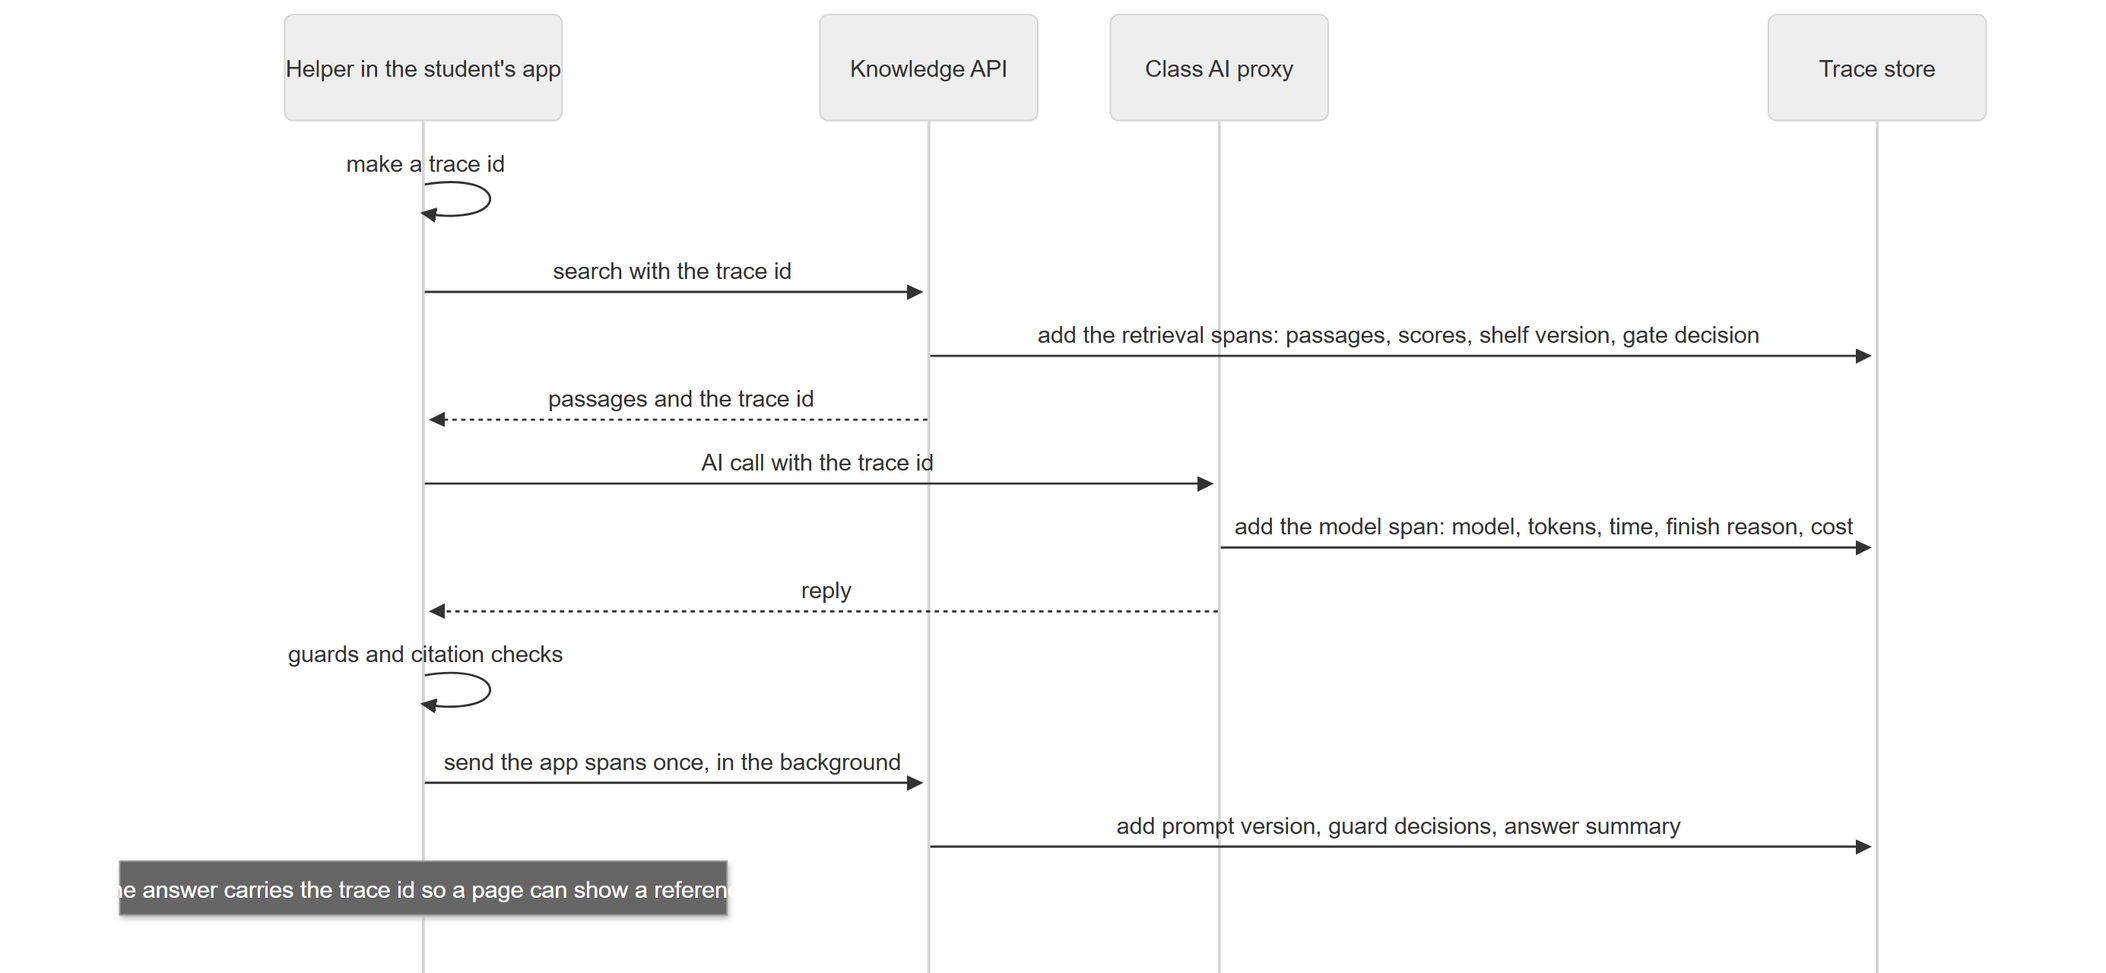
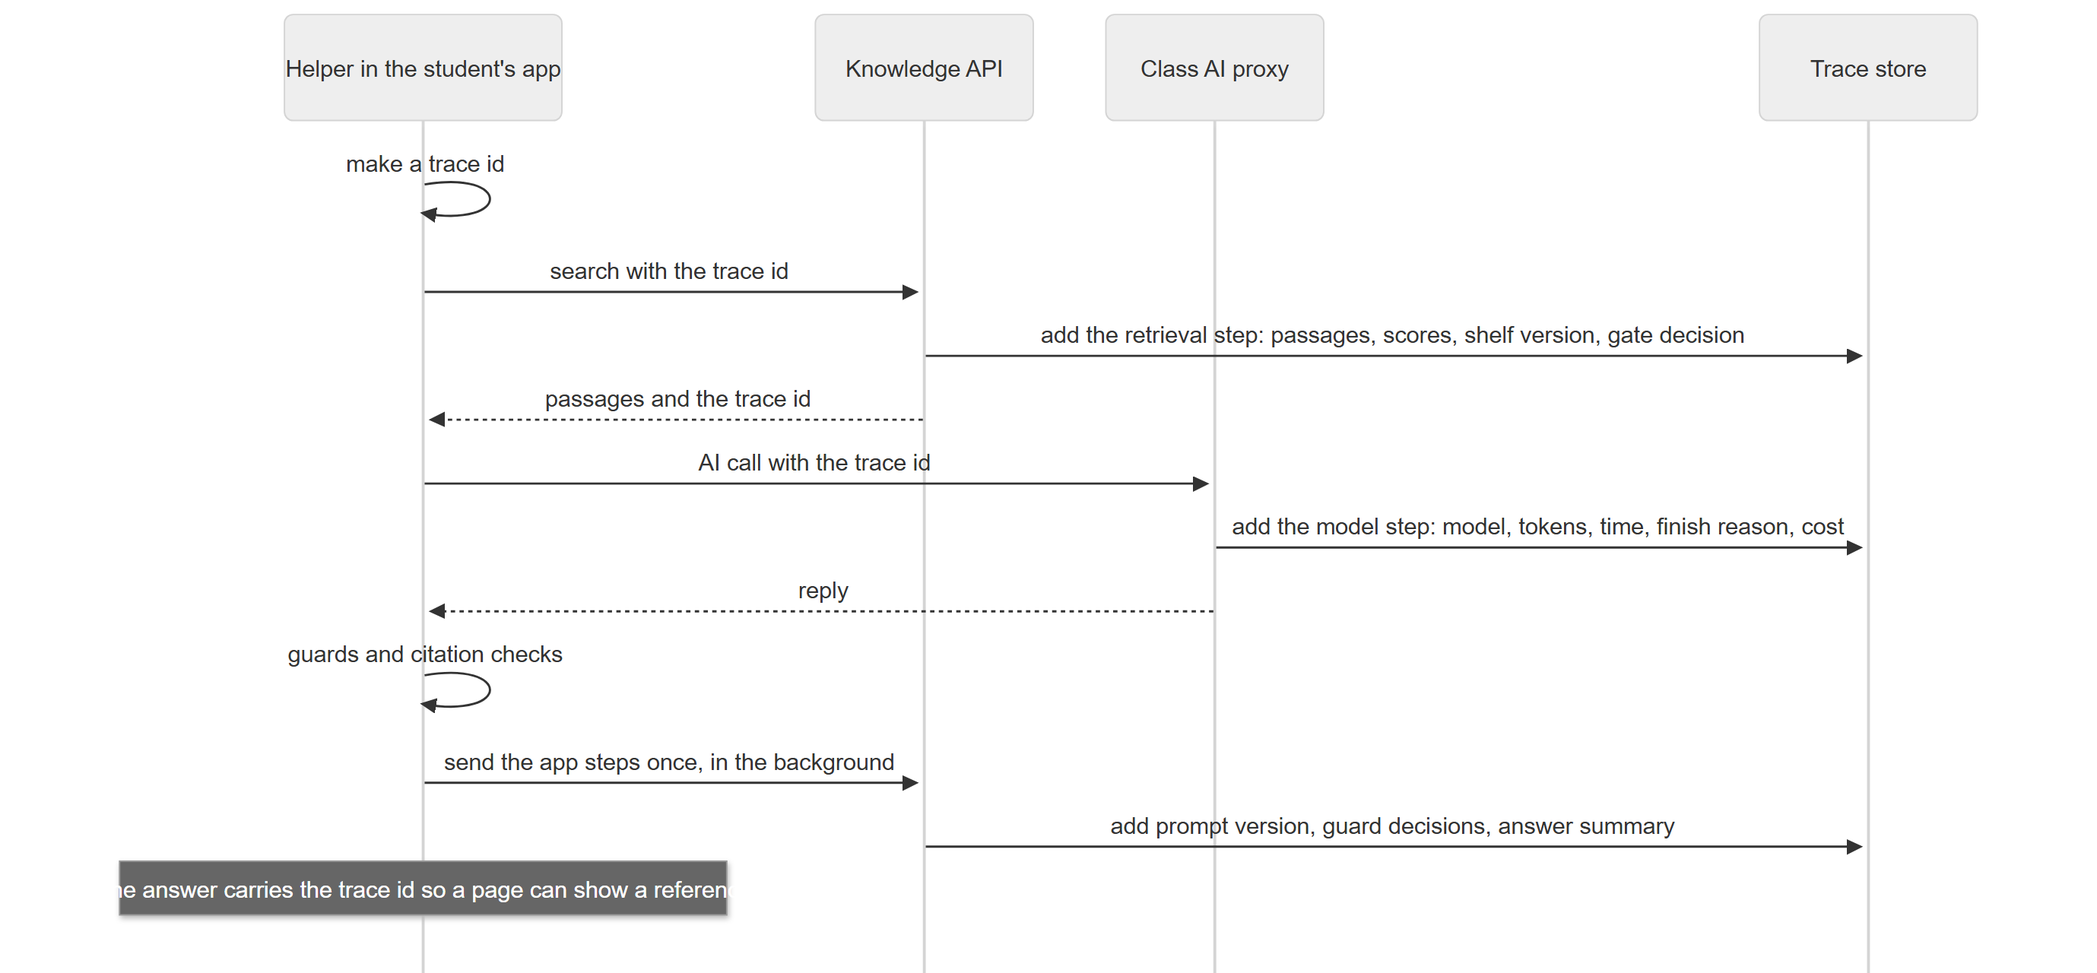
Docs: traceability plan updated by owner decisions (90 days retention for everything, teacher reminders and one download for all apps, student view of own app's traces with a per-student toggle) and a cost correction (one small item per step instead of one growing item)

diff --git a/docs/TRACEABILITY_PLAN.md b/docs/TRACEABILITY_PLAN.md
@@ -1,6 +1,8 @@
 # Traceability plan: seeing exactly what happened in every answer
 
-> **Status: a plan, nothing is built yet.** It was written for a budget of **$4 to $5 a month** for this feature, a platform that must stay simple and modular, and an owner who is not a tracing expert, so the plan makes the choices and lists only what must be confirmed. It belongs with [RAG_GUIDE.md](RAG_GUIDE.md) (the pipeline being traced), [AGENT_GUIDE.md](AGENT_GUIDE.md) (the agent being traced) and the guardrail and evaluation plan (which reads these traces).
+> **Status: a plan, nothing is built yet. The owner has approved the defaults in section 12.** It was written for a budget of **$4 to $5 a month** for this feature, a platform that must stay simple and modular, and an owner who is not a tracing expert, so the plan makes the choices and lists only what must be confirmed. It belongs with [RAG_GUIDE.md](RAG_GUIDE.md) (the pipeline being traced), [AGENT_GUIDE.md](AGENT_GUIDE.md) (the agent being traced) and the guardrail and evaluation plan (which reads these traces).
+>
+> **Changes since the first version (owner decisions):** retention is **90 days for everything**, with **reminders and an easy download** for the teacher; **students can see the traces of their own app** when the teacher allows it (a toggle per student). The cost design was also corrected: traces are stored as **small items per step**, not one growing item (section 3).
 
 ---
 
@@ -12,16 +14,14 @@ For **any answer** the platform gave, you can open one page and see **what was a
 
 | Option | Verdict |
 |---|---|
-| A hosted tracing service (LangSmith, Langfuse Cloud, Arize AX) | **Not in version 1.** Data leaves your account, it costs per trace, and customers who want their data to stay in their AWS would object. An **optional export** can come later |
+| A hosted tracing service (LangSmith, Langfuse Cloud, Arize AX) | **Not in version 1.** Data leaves your account, it costs per trace, and customers who want their data to stay in their AWS would object. An **optional export file** comes later |
 | A self-hosted tracing server (Phoenix, Langfuse) running all month | **No.** A container that is always on costs roughly $10 to $30 a month and is another thing to operate |
 | The full OpenTelemetry stack (SDK, collector) | **No.** Too heavy for student functions that are standard-library only |
 | **Our own small trace record, shaped like OpenTelemetry and OpenInference (the naming Arize uses)** | **Yes.** It costs almost nothing, stays in your account, needs no new libraries, and can be exported to Phoenix, Langfuse or LangSmith later because the shapes map one to one |
 
-So the answer to "OpenTelemetry with custom" is: **our own storage and viewer, with the standard's field names, so nothing is locked in.**
-
 ## 3. The design in five small modules
 
-<!-- diagram:c71ae7e6 -->
+<!-- diagram:4cd39b79 -->
 ![Diagram: 3. The design in five small modules](diagrams/traceability-plan/01-3-the-design-in-five-small-modules.png)
 
 <details><summary>Diagram source (Mermaid, editable; GitHub also draws it)</summary>
@@ -36,19 +36,21 @@ flowchart LR
       A["Class AI proxy<br/>model spans: tokens, time, finish reason"]
     end
     CORE["Module 1: trace core<br/>schema, ids, privacy levels, masking"]
-    STORE[("Module 2: trace store<br/>one DynamoDB table with expiry")]
-    VIEW["Module 3: Traces tab<br/>on the teacher page"]
+    STORE[("Module 2: trace store<br/>one DynamoDB table with expiry<br/>one small item per step")]
+    TV["Module 3a: Traces tab<br/>teacher page"]
+    SV["Module 3b: student view<br/>student page and npm run traces<br/>only if the teacher allows"]
     ROLL["Module 4: daily rollups and alerts<br/>drift, cost, refusals"]
-    EXP["Module 5: export and replay<br/>JSONL or OTLP file, optional"]
+    ARC["Module 5: archive, reminders, export and replay<br/>download for all apps, optional"]
     H --> K
     H --> A
     K --> CORE
     A --> CORE
     H -->|"app spans, once per answer"| K
     CORE --> STORE
-    STORE --> VIEW
+    STORE --> TV
+    STORE --> SV
     STORE --> ROLL
-    STORE --> EXP
+    STORE --> ARC
 ```
 
 </details>
@@ -57,16 +59,19 @@ flowchart LR
 | Module | Does | Why it is separate |
 |---|---|---|
 | **1. Trace core** | Defines the record, makes ids, applies the privacy level, masks secrets and personal data | One place for the rules; used by every service; tested alone |
-| **2. Trace store** | One small DynamoDB table; **one item per trace** holding its spans; items expire automatically | No servers; retention is automatic; easy to delete |
-| **3. Traces tab** | A list with filters, and one trace in detail | The only part a teacher sees |
+| **2. Trace store** | One small DynamoDB table; **one small item per step, grouped under the trace id**; items expire automatically after 90 days | No servers; retention is automatic; easy to delete |
+| **3a. Traces tab** | A list with filters, and one trace in detail (teacher page) | The only part a teacher sees |
+| **3b. Student view** | The same data, limited to the student's own app, on the student page and through `npm run traces` | Developers need it, and the teacher controls it |
 | **4. Rollups and alerts** | A daily summary per app and shelf, and CloudWatch alarms | Drift, cost and refusal rate without a dashboard product |
-| **5. Export and replay** | Download a day as a file; re-run stored questions with new settings | Optional; the bridge to Phoenix or Langfuse |
+| **5. Archive, reminders, export and replay** | Reminds the teacher before traces expire, downloads an archive for all apps, exports a file for Phoenix, replays stored questions with new settings | Optional; the bridge to other tools |
 
-**No new libraries and no always-on servers.** One new table, narrow permissions for the two services that write to it, and a few teacher-page routes.
+**No new libraries and no always-on servers.** One new table, narrow permissions for the two services that write to it, and a few teacher-page and student-page routes.
+
+**Cost correction.** The first version said "one item per trace". But DynamoDB charges writes by the **size of the item written**, and a trace is written by several services, so one growing item would be rewritten again and again. **One small item per step** (grouped under the trace id, with a sparse "summary" item per trace for the list) costs a few times less. Reading a trace is one query.
 
 ## 4. How one answer is traced
 
-<!-- diagram:077d1c91 -->
+<!-- diagram:72750d7b -->
 ![Diagram: 4. How one answer is traced](diagrams/traceability-plan/02-4-how-one-answer-is-traced.png)
 
 <details><summary>Diagram source (Mermaid, editable; GitHub also draws it)</summary>
@@ -79,13 +84,13 @@ sequenceDiagram
     participant S as Trace store
     H->>H: make a trace id
     H->>K: search with the trace id
-    K->>S: add the retrieval spans: passages, scores, shelf version, gate decision
+    K->>S: add the retrieval step: passages, scores, shelf version, gate decision
     K-->>H: passages and the trace id
     H->>A: AI call with the trace id
-    A->>S: add the model span: model, tokens, time, finish reason, cost
+    A->>S: add the model step: model, tokens, time, finish reason, cost
     A-->>H: reply
     H->>H: guards and citation checks
-    H->>K: send the app spans once, in the background
+    H->>K: send the app steps once, in the background
     K->>S: add prompt version, guard decisions, answer summary
     Note over H: The answer carries the trace id so a page can show a reference
 ```
@@ -94,9 +99,9 @@ sequenceDiagram
 <!-- /diagram -->
 
 Three rules keep it safe and simple:
-1. **The platform traces by itself.** Every model call is traced by the AI proxy and every search by the knowledge API, **even if a student wrote their own code**. App spans are an extra, labelled "from the app".
-2. **Tracing never slows or breaks an answer.** The app spans are sent in the background with a short timeout, and a failure only increments a "dropped" counter.
-3. **One write per service per request**, so the cost stays tiny.
+1. **The platform traces by itself.** Every model call is traced by the AI proxy and every search by the knowledge API, **even if a student wrote their own code**. App steps are an extra, labelled "from the app".
+2. **Tracing never slows or breaks an answer.** The app steps are sent in the background with a short timeout, and a failure only increments a "dropped" counter.
+3. **One small write per step**, so the cost stays tiny.
 
 ## 5. What a trace contains
 
@@ -113,91 +118,131 @@ Three rules keep it safe and simple:
 | Agent (if used) | each step: tool, arguments, refusal, approval, resume, budget use |
 | After | the visitor's thumbs, a teacher's flag, an evaluation result |
 
-## 6. Privacy: three levels, one setting per student
+## 6. Privacy, retention, reminders and who can see traces
 
-| Level | Stored | Kept for |
-|---|---|---|
-| **Metadata only (default)** | Everything in section 5 **except** the question, passages and answer **text** | **90 days** |
-| **Metadata and text, masked** | Plus the question and answer, with secrets, phone numbers, email addresses and common ID numbers (including Indian ones) masked | **30 days** |
-| **Full** | Plus the prompt and passage text | **30 days**, for debugging windows or explicit consent |
+### 6.1 Privacy: three levels, one setting per student
+
+| Level | Stored |
+|---|---|
+| **Metadata only (default)** | Everything in section 5 **except** the question, passages and answer **text** |
+| **Metadata and text, masked** | Plus the question and answer, with secrets, phone numbers, email addresses and common ID numbers (including Indian ones) masked |
+| **Full** | Plus the prompt and passage text |
 
 - The teacher chooses the level on the **student's Class knowledge card** (one drop-down).
 - **Always kept in full for failures** (low confidence, guard flags, thumbs-down, errors), **but never above the level allowed**.
 - **Never stored:** keys, tokens, passwords.
 - Deleting a student, a token or a shelf **also deletes their traces** (tested).
 - Hindi text is stored as it is, and hashes are made from normalised text.
-- Only the teacher sees traces in version 1.
+- **Visitors' privacy:** the starter page gets a short, editable line ("Questions are logged to improve this service") shown whenever text is stored.
+
+### 6.2 Retention: 90 days for everything
+- **One rule: every trace is kept 90 days**, then expires by itself.
+- **Longer text retention means more personal text kept longer**, so the teacher can **shorten it per student** (30, 60 or 90 days, default 90), and the masked level stays the recommended text level.
+- Storage for 90 days is part of the cost estimate in section 7.
+
+### 6.3 Reminders and an easy download (Module 5)
+- **The teacher is reminded before traces expire**, in two ways: a **banner on the Traces tab** ("Traces from 1 August to 14 August expire in 14 days: download an archive"), and an **optional monthly email** through the platform's existing alert email.
+- **One download for everything:** a button that produces **one file for all apps** (or one app, or one shelf) for a **date range**, as a compressed JSON-lines file. It respects the privacy level in force: text appears only if it was stored.
+- The download is **the teacher's responsibility once it leaves the platform** (it may contain personal text). The button says so.
+- *Later, optional:* a **monthly automatic archive into the teacher's S3 bucket** (compressed, cheap to keep for a year), **off by default**.
+- **Rule: the reminder and download ship before any trace can expire** (before day 60 after the first traces are stored).
+
+### 6.4 Who can see traces
+- **The teacher:** every app, all traces.
+- **A student:** only the traces of **their own app**, **only if the teacher allows it**, with one drop-down per student on the Class knowledge card:
+
+| Student can see | Meaning |
+|---|---|
+| **Off** | Nothing |
+| **Metadata only (default)** | Steps, scores, timing, tokens, decisions; no text, even if text is stored |
+| **As stored** | The same as the teacher sees for that student, including text if it was stored |
+
+- Why students should see them: they are developers, like the logs they already read with `npm run logs`. A trace shows them *why* their app answered wrongly.
+- **Isolation (tested):** the student's login decides which traces they can see; there is no way to name another student's trace, and a trace id from another app returns "not found".
+- A student can never see keys or another app's data, and platform-only fields (internal cost rates) are hidden.
+- Text captured in a student's traces includes **their visitors' questions**, which is why the default for students is metadata only, and why the visitor notice exists.
 
 ## 7. Cost: well inside $4 to $5
 
-Estimates (to be confirmed against real usage): about 6 spans per answer, a 3 KB trace for metadata only, a 40 KB trace for full text.
+Estimates (to be confirmed against real usage and current prices): about 6 steps per answer; a metadata-only trace is about 4 KB in total, a full-text trace about 25 KB; DynamoDB on demand charges writes by size (per KB) and storage per GB-month; 90 days of data are kept at all times.
 
-| Volume per month | Metadata only | Everything at full text |
+| Volume per month | Metadata only | Masked or full text |
 |---|---|---|
-| 10,000 answers | **under $1** | **about $1** |
-| 100,000 answers | about $2 | about $4 |
+| 10,000 answers | **about $0.30** | **about $1** |
+| 100,000 answers | **about $1 to $2** | **about $4 to $5** (at the edge of the budget) |
 
-Cost drivers: DynamoDB writes and storage (the table expires items by itself), a small CloudWatch line per trace for alarms, and a few milliseconds of Lambda time.
+Plus a few cents for the CloudWatch line per trace (alarms) and a few milliseconds of Lambda time.
 
 **Guards that keep it under the ceiling:**
-- a **daily trace limit per student** (like the search allowance), after which only counters are kept;
-- a **maximum trace size**, with long text cut;
-- a **monthly trace budget** that stops text capture first and metadata last;
-- the privacy default is the cheapest level.
+- a **daily trace limit per student** (the same as the search allowance), after which only counters are kept;
+- a **maximum size** per step, with long text cut;
+- a **monthly trace budget ($4)** that **stops text capture first and metadata last**;
+- the default is the cheapest level, and teachers can shorten retention per student.
 
-## 8. What the Traces tab shows
+## 8. What the viewers show
 
+**Teacher: the Traces tab**
 - A list: time, app, shelf, outcome (answered, refused, flagged, error), best similarity, time, tokens, cost, thumbs.
 - Filters: app, shelf, outcome, date, flagged, thumbs-down, **by trace id** (the reference a visitor reports).
 - One trace: the timeline of stages, the retrieved passages (ids and scores, and text only if the level allows), the model and its settings, the guard decisions, the answer summary.
 - Actions: **flag**, and later **add to the test set** (turns a real failure into a permanent regression case).
 - A **lineage search**: pick a document and see every recent answer that used it.
+- The retention banner and the **Download archive** button.
+
+**Student: the same, limited to their app**
+- A **Traces panel** on the student page, and **`npm run traces`** in the project (list recent, show one by id), so an AI editor can read a trace too. An editor tool can follow later.
+- No archive button (the teacher handles that).
 
 ## 9. The roadmap (each step works on its own)
 
 | Step | Deliverable | Done when |
 |---|---|---|
 | **T0. Schema** | The trace schema document, the privacy levels, the id and version conventions, and a sample trace | You have read and approved the sample |
-| **T1. Platform traces** | The trace store, and the knowledge API and AI proxy write metadata-only traces; the trace id is returned in answers | 100% of searches and AI calls have a trace; no extra failures; a deletion test passes |
-| **T2. Helper spans** | `answer()` and the agent send their spans; the starter page can show a reference | One answer shows search, prompt, model and answer in one trace |
-| **T3. Traces tab** | The viewer, filters, the privacy drop-down, flag, retention | You find a bad answer and open it within a minute |
-| **T4. Privacy hardening** | Masking, the text levels, access checks, deletion on removal, size and rate limits | Tests prove masking, expiry and deletion |
-| **T5. Rollups and alerts** | A daily summary per app and shelf, CloudWatch alarms (errors, refusal rate shift, latency), lineage search, cost per shelf | A drift alert fires in a test; cost per shelf is visible |
-| **T6. Export and replay** | Download a day as a file, import into Phoenix on a laptop, re-run stored questions with new settings and compare | A stored question is replayed against a new setting |
+| **T1. Platform traces** | The trace store, and the knowledge API and AI proxy write metadata-only traces; the trace id is returned in answers; 90-day expiry | 100% of searches and AI calls have a trace; no extra failures; a deletion test passes |
+| **T2. Helper spans** | `answer()` and the agent send their steps; the starter page can show a reference and the visitor notice | One answer shows search, prompt, model and answer in one trace |
+| **T3. Traces tab (teacher)** | The viewer, filters, the privacy drop-down, retention per student, flag | You find a bad answer and open it within a minute |
+| **T4. Student view** | The per-student visibility toggle, the student routes and panel, `npm run traces` | A student sees only their own app; another app's id is "not found"; off means nothing |
+| **T5. Privacy hardening** | Masking, the text levels, access checks, deletion on removal, size and rate limits | Tests prove masking, expiry and deletion |
+| **T6. Rollups and alerts** | A daily summary per app and shelf, CloudWatch alarms (errors, refusal rate shift, latency), lineage search, cost per shelf | A drift alert fires in a test; cost per shelf is visible |
+| **T7. Archive, reminders, export, replay** | The expiry banner and monthly email, **one download for all apps**, a file for Phoenix on a laptop, replay of stored questions with new settings | The download works for all apps, **and it ships before day 60 after T1** |
 
 **Where it fits in the whole programme:**
 1. Benchmark documents, then the per-shelf settings file (already agreed).
 2. **T0 and T1**, so the benchmark and attack tests produce traces from the start.
 3. Guard step G0 (threat model, attack set, baseline), which **uses the traces**.
-4. T2 and T3, then guard steps G1 and G2.
-5. T4 before any real business data; T5 and T6 afterwards.
+4. T2, T3 and T4, then guard steps G1 and G2.
+5. T5 before any real business data; T6 next; **T7 no later than day 60 after T1**.
 
 ## 10. What we will not do (on purpose)
 - No hosted tracing service in version 1 (only an optional export file later).
 - No always-on tracing server.
 - No OpenTelemetry collector or SDK in student functions.
-- No text capture unless you choose it per student.
-- No student-visible traces in version 1.
+- No text capture unless the teacher chooses it per student.
+- Students never see traces of another app, and never see text unless the teacher allows it.
 
 ## 11. Risks and answers
 
 | Risk | Answer |
 |---|---|
-| Sensitive text in traces | Metadata by default, masking, short retention, encryption, deletion on removal |
+| Sensitive text in traces, kept 90 days | Metadata by default, masking, retention shortened per student, encryption, deletion on removal |
+| Students seeing visitors' questions | Default is metadata only; text only if the teacher chooses; a visitor notice on the page |
 | Cost creeps up | Per-student daily limit, size cap, a trace budget with an order of what to stop first |
-| An app edits its own spans | Platform spans are trusted and marked; app spans are marked as such |
+| A downloaded archive leaks | The download says it carries the data's responsibility; text only if it was stored |
+| An app edits its own steps | Platform steps are trusted and marked; app steps are marked as such |
 | Tracing breaks an answer | Background send, short timeout, drop counter |
 | The format changes | The schema is versioned and tested; exporters map to the standard names |
-| Hot or slow lookups | One item per trace, a day-based index, expiry; fine at this scale |
+| Traces expire before they are saved | The reminder and download ship before day 60 |
 
-## 12. Settings you can veto (my defaults)
+## 12. Settings (approved by the owner unless marked)
 
-| Setting | My default |
+| Setting | Value |
 |---|---|
 | Default privacy level | Metadata only |
-| Retention | 90 days metadata, 30 days text |
-| Who sees traces | Teacher only |
+| Retention | **90 days for everything** (shorten per student: 30, 60 or 90) |
+| Reminder | Banner on the Traces tab, and an optional monthly email |
+| Download | One file for all apps, one app or one shelf, for a date range |
+| Who sees traces | Teacher always; **student for their own app, when the teacher allows** (Off, Metadata only (default), As stored) |
 | Hosted export | Off, and not in version 1 |
-| Trace reference shown to visitors | Yes, a short reference under the answer |
+| Trace reference shown to visitors | Yes, a short reference under the answer, plus a notice line when text is stored |
 | Daily trace limit per student | Same as the search allowance |
 | Monthly trace budget | $4 |
